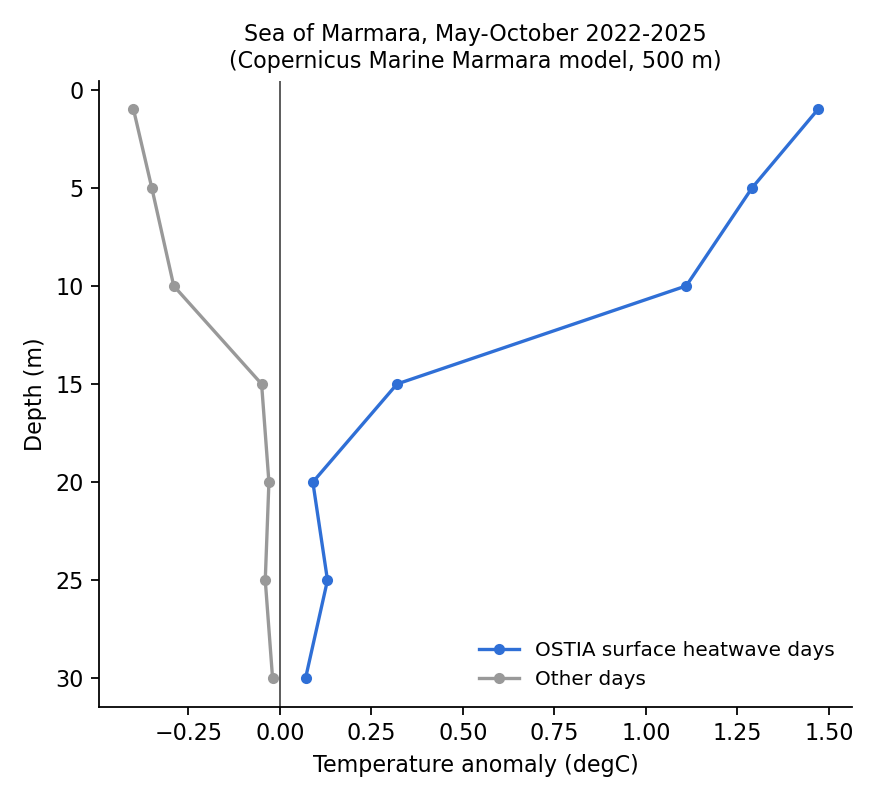
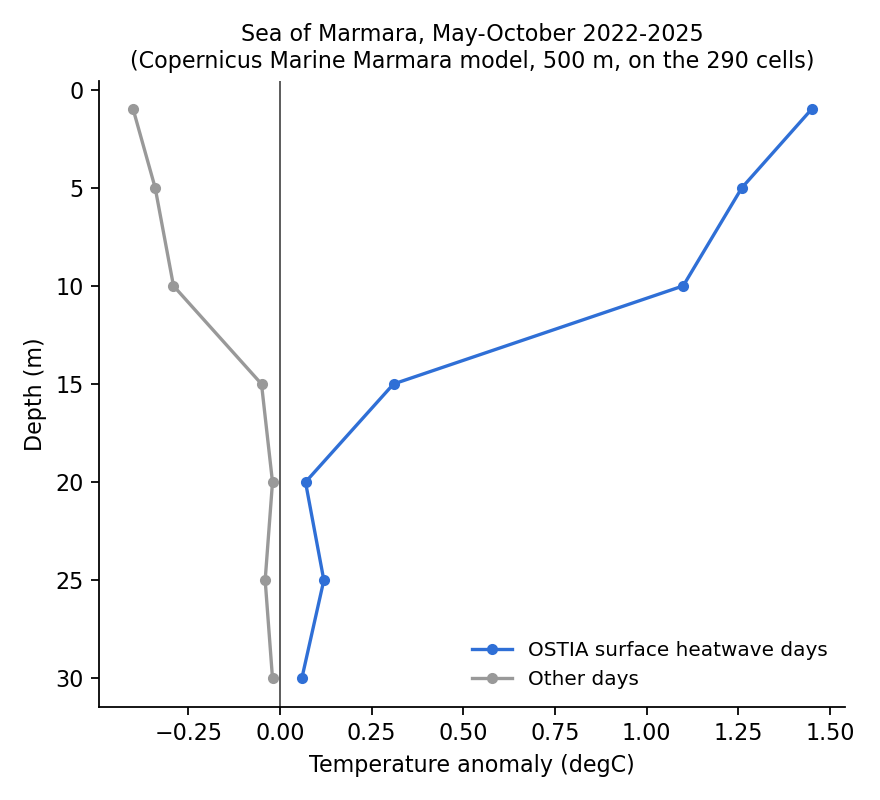
Sub-surface on the 290 OSTIA cells; NRT grid check; git in the container
05_subsurface.py put the Copernicus Marine 500 m model on a lon/lat box (every 6th point) that did not match the
290 HEALPix cells used for OSTIA, while its docstring said it did. Every model level now goes onto the same cells
with healpix-connector's BilinearConservative, from a box that contains every cell; the profile uses the 240
cells at least half water at 30 m, and the 1 m check compares model and OSTIA over the same 280 cells. Results
change by 0.03 degC or less (1 m +1.45, 10 m +1.10, 20 m +0.07 degC on heatwave days; r = 0.996).
01_healpix.py: near-real-time OSTIA days go through the reprocessed grid's operator only if the grids are
identical (they are; no NRT day is used).
Dockerfile: install git, which pixi needs for the healpix-connector git dependency (v0.1.0 image build failed).

diff --git a/pipeline/05_subsurface.py b/pipeline/05_subsurface.py
@@ -2,17 +2,24 @@
 
 Source: Copernicus Marine BLKSEA_ANALYSISFORECAST_PHY_007_001, dataset cmems_mod_blk_phy-tem_anfc_mrm-500m_P1D-m
 (Marmara Sea and Turkish Straits, 500 m, daily mean potential temperature; available from November 2021, so too
-short for a heatwave climatology at depth). Box 26.6-29.95 E, 40.25-41.08 N, every 6th grid point (about 3 km),
-depths 1, 5, 10, 15, 20, 25 and 30 m; only water columns with a value at 30 m are averaged, so every depth is
-the mean over the same columns. Copernicus Marine account read by the toolbox (never copied here).
+short for a heatwave climatology at depth), depths 1, 5, 10, 15, 20, 25 and 30 m. Every model level is put on the same
+290 Sea of Marmara cells as OSTIA (HEALPix depth 10, healpix-geo WGS84, NESTED; 01_healpix.py) with healpix-connector's
+BilinearConservative (normalised conservative bilinear, area = cos(lat), land excluded, valid share per cell), from a
+box that contains every cell completely (the cells' outline plus 0.05 deg). A cell enters the depth profile when it is
+at least half water at 30 m on every day, so every depth is the mean over the same cells; the 1 m comparison with
+OSTIA uses the cells at least half water at 1 m on every day, with OSTIA averaged over the same cells. Equal-area
+cells: basin means are plain means over cells. Only the per-cell daily means are kept (<ROOT>/cmems/cells/, not
+committed); no model field is stored. Copernicus Marine account read by the toolbox (never copied here).
 Surface heatwave days come from OSTIA with the paper's baseline 1982-2021 (Hobday et al. 2016, pipeline/mhw.py),
 on the 290 Marmara cells of 01_healpix.py.
+(Until 4 November 2026 the model was averaged over a lon/lat box, 26.6-29.95 E, 40.25-41.08 N, every 6th point,
+which did not match the 290 cells; see the README.)
 1. Model at 1 m against OSTIA, 2022-2025: bias, RMSE, correlation of the daily basin means.
 2. Anomaly at each depth: daily value minus the model's own 2022-2025 mean for that day of year (31-day running
    mean); averaged over OSTIA surface heatwave days and over other days, May-October.
 3. Stratification: temperature at 1 m minus 10 m and minus 30 m, on heatwave days and other days, May-October;
    also 1-30 m with its seasonal cycle removed, since heatwave days fall mostly in July-October.
-Writes <ROOT>/cmems/marmara_profile_daily.csv (basin means), results/subsurface_claims.json,
+Writes <ROOT>/cmems/cells/<YYYY-MM>.npz (per-cell daily means), results/subsurface_claims.json,
 results/doc_figure_marmara_subsurface.json and figures/marmara_subsurface.png.
 Usage: python pipeline/05_subsurface.py <ROOT>
 """
@@ -33,46 +40,68 @@ import mhw  # noqa: E402
 
 ROOT = sys.argv[1]
 DATASET = "cmems_mod_blk_phy-tem_anfc_mrm-500m_P1D-m"
-BOX = dict(minimum_longitude=26.6, maximum_longitude=29.95, minimum_latitude=40.25, maximum_latitude=41.08)
 DEPTH_IDX = [0, 4, 9, 14, 19, 24, 29]                   # 1, 5, ..., 30 m (the model has 1 m levels near the surface)
-STRIDE = 6
-OUT = f"{ROOT}/cmems/marmara_profile_daily.csv"
+MARGIN = 0.05                                           # deg around the cells' outline
+CELLDIR = f"{ROOT}/cmems/cells"
+MIN_SHARE = 0.5
+
+
+def marmara_cells():
+    import healpix_geo.nested as hn
+    cells = np.sort(xr.open_dataset(f"{ROOT}/hp/marmara.nc").cell.values.astype(np.uint64))
+    vlon, vlat = hn.vertices(cells, 10, ellipsoid="WGS84", step=2)
+    box = dict(minimum_longitude=float(np.min(vlon)) - MARGIN, maximum_longitude=float(np.max(vlon)) + MARGIN,
+               minimum_latitude=float(np.min(vlat)) - MARGIN, maximum_latitude=float(np.max(vlat)) + MARGIN)
+    return cells, box
 
 
 def download():
+    """Per-cell daily means of every model level on the 290 cells, one file per month (resumable)."""
     import copernicusmarine as cm
-    if os.path.exists(OUT):
-        return pd.read_csv(OUT, parse_dates=["date"])
-    os.makedirs(os.path.dirname(OUT), exist_ok=True)
-    rows = []
+    from healpix_connector.resampling import BilinearConservative
+    cells, box = marmara_cells()
+    os.makedirs(CELLDIR, exist_ok=True)
+    op, grid = None, None
     for start in pd.date_range("2022-01-01", "2025-12-01", freq="MS"):
+        fn = f"{CELLDIR}/{start:%Y-%m}.npz"
+        if os.path.exists(fn):
+            continue
         end = start + pd.offsets.MonthEnd(0)
         for attempt in range(5):
             try:
                 ds = cm.open_dataset(dataset_id=DATASET, variables=["thetao"], service="arco-time-series",
                                      start_datetime=str(start.date()), end_datetime=str(end.date()),
-                                     minimum_depth=0, maximum_depth=31, **BOX)
-                v = ds.thetao.isel(latitude=slice(None, None, STRIDE), longitude=slice(None, None, STRIDE),
-                                   depth=DEPTH_IDX).load()
+                                     minimum_depth=0, maximum_depth=31, **box)
+                v = ds.thetao.isel(depth=DEPTH_IDX).load()
                 break
             except Exception as e:                       # network or service hiccup
                 print("retry", start.date(), attempt, type(e).__name__, str(e)[:150], flush=True)
                 time.sleep(30 * (attempt + 1))
         else:
             raise RuntimeError(f"failed: {start.date()}")
-        deep_ok = np.isfinite(v.isel(depth=-1)).all("time")          # columns at least 30 m deep, valid all month
-        m = v.where(deep_ok).mean(["latitude", "longitude"])
-        for t in range(m.sizes["time"]):
-            for k, z in enumerate(m.depth.values):
-                rows.append({"date": pd.Timestamp(m.time.values[t]).normalize(), "depth_m": float(z),
-                             "t_degC": round(float(m.values[t, k]), 4), "columns": int(deep_ok.sum())})
-        print("OK", start.strftime("%Y-%m"), int(deep_ok.sum()), "columns", flush=True)
-    df = pd.DataFrame(rows)
-    df.to_csv(OUT, index=False)
-    return df
+        g = (v.longitude.values.copy(), v.latitude.values.copy())
+        if grid is None:
+            grid = g
+            lon2, lat2 = np.meshgrid(*grid)
+            op = BilinearConservative(lon2.ravel(), lat2.ravel(), cells, 10, area=np.cos(np.radians(lat2.ravel())))
+        elif not (np.array_equal(g[0], grid[0]) and np.array_equal(g[1], grid[1])):
+            raise RuntimeError(f"model grid changed in {start:%Y-%m}")
+        a = v.values.reshape(v.sizes["time"] * v.sizes["depth"], -1).astype(float)   # (time*depth, pixels)
+        mean, share = op(a)
+        shape = (v.sizes["time"], v.sizes["depth"], len(cells))
+        np.savez_compressed(fn, dates=v.time.values.astype("datetime64[D]"), depth=v.depth.values,
+                            cells=cells, temp=mean.reshape(shape).astype(np.float32),
+                            share=share.reshape(shape).astype(np.float32))
+        print("OK", f"{start:%Y-%m}", "cells with water at 30 m:", int((share.reshape(shape)[:, -1] >= MIN_SHARE).all(0).sum()),
+              flush=True)
+    parts = [np.load(f"{CELLDIR}/{m:%Y-%m}.npz") for m in pd.date_range("2022-01-01", "2025-12-01", freq="MS")]
+    dates = pd.to_datetime(np.concatenate([p["dates"] for p in parts]))
+    return (dates, np.round(parts[0]["depth"]).astype(float), cells,
+            np.concatenate([p["temp"] for p in parts]), np.concatenate([p["share"] for p in parts]))
 
 
 def ostia_heatwave_days():
+    """Heatwave days from the OSTIA mean over all 290 cells, as in 02_mhw.py."""
     s = xr.open_dataset(f"{ROOT}/hp/marmara.nc").sst.mean("cell").to_series()
     s = s[s.index.year <= 2025]
     t, x = s.index, s.values.astype(float)
@@ -83,15 +112,23 @@ def ostia_heatwave_days():
 
 def main():
     os.makedirs("results", exist_ok=True)
-    df = download()
-    prof = df.pivot_table(index="date", columns="depth_m", values="t_degC")
+    dates, depths, cells, temp, share = download()
+    ok30 = (share[:, -1, :] >= MIN_SHARE).all(0)             # at least half water at 30 m on every day
+    ok1 = (share[:, 0, :] >= MIN_SHARE).all(0)
+    prof = pd.DataFrame(np.nanmean(temp[:, :, ok30], axis=2), index=dates, columns=depths)
+    m1 = pd.Series(np.nanmean(temp[:, 0, ok1], axis=1), index=dates)
+    hp = xr.open_dataset(f"{ROOT}/hp/marmara.nc")
+    o1 = hp.sst.sel(cell=cells[ok1].astype(np.int64)).mean("cell").to_series()
     sst, hw = ostia_heatwave_days()
-    days = prof.index.intersection(sst.index)
-    prof, sst, hw = prof.loc[days], sst.loc[days], hw.loc[days]
-    d = prof[1.0] - sst
-    claims = {"period": [str(days.min().date()), str(days.max().date())], "columns_median": int(df["columns"].median()),
+    days = prof.index.intersection(sst.index).intersection(o1.index)
+    prof, sst, hw, m1, o1 = prof.loc[days], sst.loc[days], hw.loc[days], m1.loc[days], o1.loc[days]
+    d = m1 - o1
+    claims = {"period": [str(days.min().date()), str(days.max().date())],
+              "grid": "290 OSTIA cells (HEALPix depth 10, WGS84, NESTED), healpix-connector BilinearConservative",
+              "cells_profile_water_at_30m": int(ok30.sum()), "cells_1m": int(ok1.sum()), "cells_total": int(len(cells)),
               "model_1m_vs_ostia": {"bias_degC": round(float(d.mean()), 2), "rmse_degC": round(float(np.sqrt((d ** 2).mean())), 2),
-                                    "r": round(float(np.corrcoef(prof[1.0], sst)[0, 1]), 3)}}
+                                    "r": round(float(np.corrcoef(m1, o1)[0, 1]), 3),
+                                    "note": "model 1 m and OSTIA averaged over the same cells"}}
     doy = prof.index.dayofyear
     clim = prof.groupby(doy).mean()
     clim = pd.concat([clim.iloc[-15:], clim, clim.iloc[:15]]).rolling(31, center=True).mean().iloc[15:-15]
@@ -124,7 +161,7 @@ def main():
                 label="OSTIA surface heatwave days" if k == "heatwave" else "Other days", ms=4)
     ax.axvline(0, color="0.3", lw=0.8)
     ax.invert_yaxis(); ax.set_xlabel("Temperature anomaly (degC)"); ax.set_ylabel("Depth (m)")
-    ax.set_title("Sea of Marmara, May-October 2022-2025\n(Copernicus Marine Marmara model, 500 m)", fontsize=10)
+    ax.set_title("Sea of Marmara, May-October 2022-2025\n(Copernicus Marine Marmara model, 500 m, on the 290 cells)", fontsize=10)
     ax.legend(frameon=False, fontsize=9); ax.spines[["top", "right"]].set_visible(False)
     fig.tight_layout(); fig.savefig("figures/marmara_subsurface.png", dpi=160); plt.close(fig)
 

diff --git a/pipeline/01_healpix.py b/pipeline/01_healpix.py
@@ -37,6 +37,12 @@ def main():
         nrt = xr.open_dataset(f"{ROOT}/sst/{box}_nrt.nc")["analysed_sst"]
         last_rep = pd.Timestamp(rep.time.values[-1])
         nrt = nrt.sel(time=nrt.time > np.datetime64(last_rep))
+        # The resampling operator is built on the reprocessed grid; near-real-time days go through it only if they
+        # share that exact 0.05 deg grid (same longitudes and latitudes), otherwise they would be silently shifted.
+        if nrt.sizes["time"] and not (np.array_equal(nrt.longitude.values, rep.longitude.values)
+                                      and np.array_equal(nrt.latitude.values, rep.latitude.values)):
+            raise RuntimeError(f"{box}: OSTIA near-real-time grid differs from the reprocessed grid; "
+                               "resample it with its own operator")
         lon2, lat2 = np.meshgrid(rep.longitude.values, rep.latitude.values)
         lon, lat = lon2.ravel(), lat2.ravel()
         op = BilinearResampler(lon_deg=lon, lat_deg=lat, level=DEPTH, nest=True, ellipsoid="WGS84",

diff --git a/README.md b/README.md
@@ -47,7 +47,7 @@ Figure: [Marmara annual heatwave days and events](figures/marmara_mhw_annual.png
 - Sub-regions are IHO seas, not the paper's clusters (the paper's Marmara cluster MS-C5 is close to the IHO Sea of Marmara).
 - The paper used a MATLAB toolbox (Zhao and Marin 2019); our Python detection agrees with the reference Python implementation, not checked against the MATLAB one.
 - Climate Digital Twin projections: daily SST of Climate DT generation 2 (IFS-FESOM and IFS-NEMO, historical 1990-2014 + SSP3-7.0 2015-2049), region cut out by Polytope and put on the same WGS84 cells with healpix-connector (`pipeline/03_climatedt.py`); evaluation against OSTIA and heatwave days to 2049 against each source's own 1991-2020 climatology (`pipeline/04_climatedt_mhw.py`, `results/climatedt_claims.json`). One realisation per model, one scenario; both models warm more slowly than observed over 1991-2025. Only derived statistics are committed (DestinE terms).
-- Below the surface (`pipeline/05_subsurface.py`): Copernicus Marine Marmara model at 500 m (BLKSEA_ANALYSISFORECAST_PHY_007_001, from November 2021), checked against OSTIA at 1 m (r = 0.996); on surface heatwave days of May-October 2022-2025 the anomaly is +1.5 degC at 1 m, +1.1 at 10 m and 0.1 or less below 20 m; 1-30 m stratification about 1.8 degC stronger than on other days (seasonal cycle removed). Basin means only (`work/cmems/marmara_profile_daily.csv`, not committed; results in `results/subsurface_claims.json`).
+- Below the surface (`pipeline/05_subsurface.py`): Copernicus Marine Marmara model at 500 m (BLKSEA_ANALYSISFORECAST_PHY_007_001, from November 2021), put on the same 290 cells as OSTIA (healpix-connector BilinearConservative; the depth profile uses the 240 cells at least half water at 30 m) and checked against OSTIA at 1 m over the same cells (r = 0.996, bias -0.2 degC); on surface heatwave days of May-October 2022-2025 the anomaly is +1.5 degC at 1 m, +1.1 at 10 m and 0.1 or less below 20 m; 1-30 m stratification about 1.8 degC stronger than on other days (seasonal cycle removed). Per-cell daily means only (`work/cmems/cells/`, not committed; results in `results/subsurface_claims.json`). Until 4 November 2026 the model was averaged over a lon/lat box that did not match the cells; on the cells every value changed by 0.03 degC or less. Model dataset version 202311, which Copernicus Marine retires on 12 January 2027.
 - Surface temperature only; mucilage itself is not modelled.
 
 ### Data
